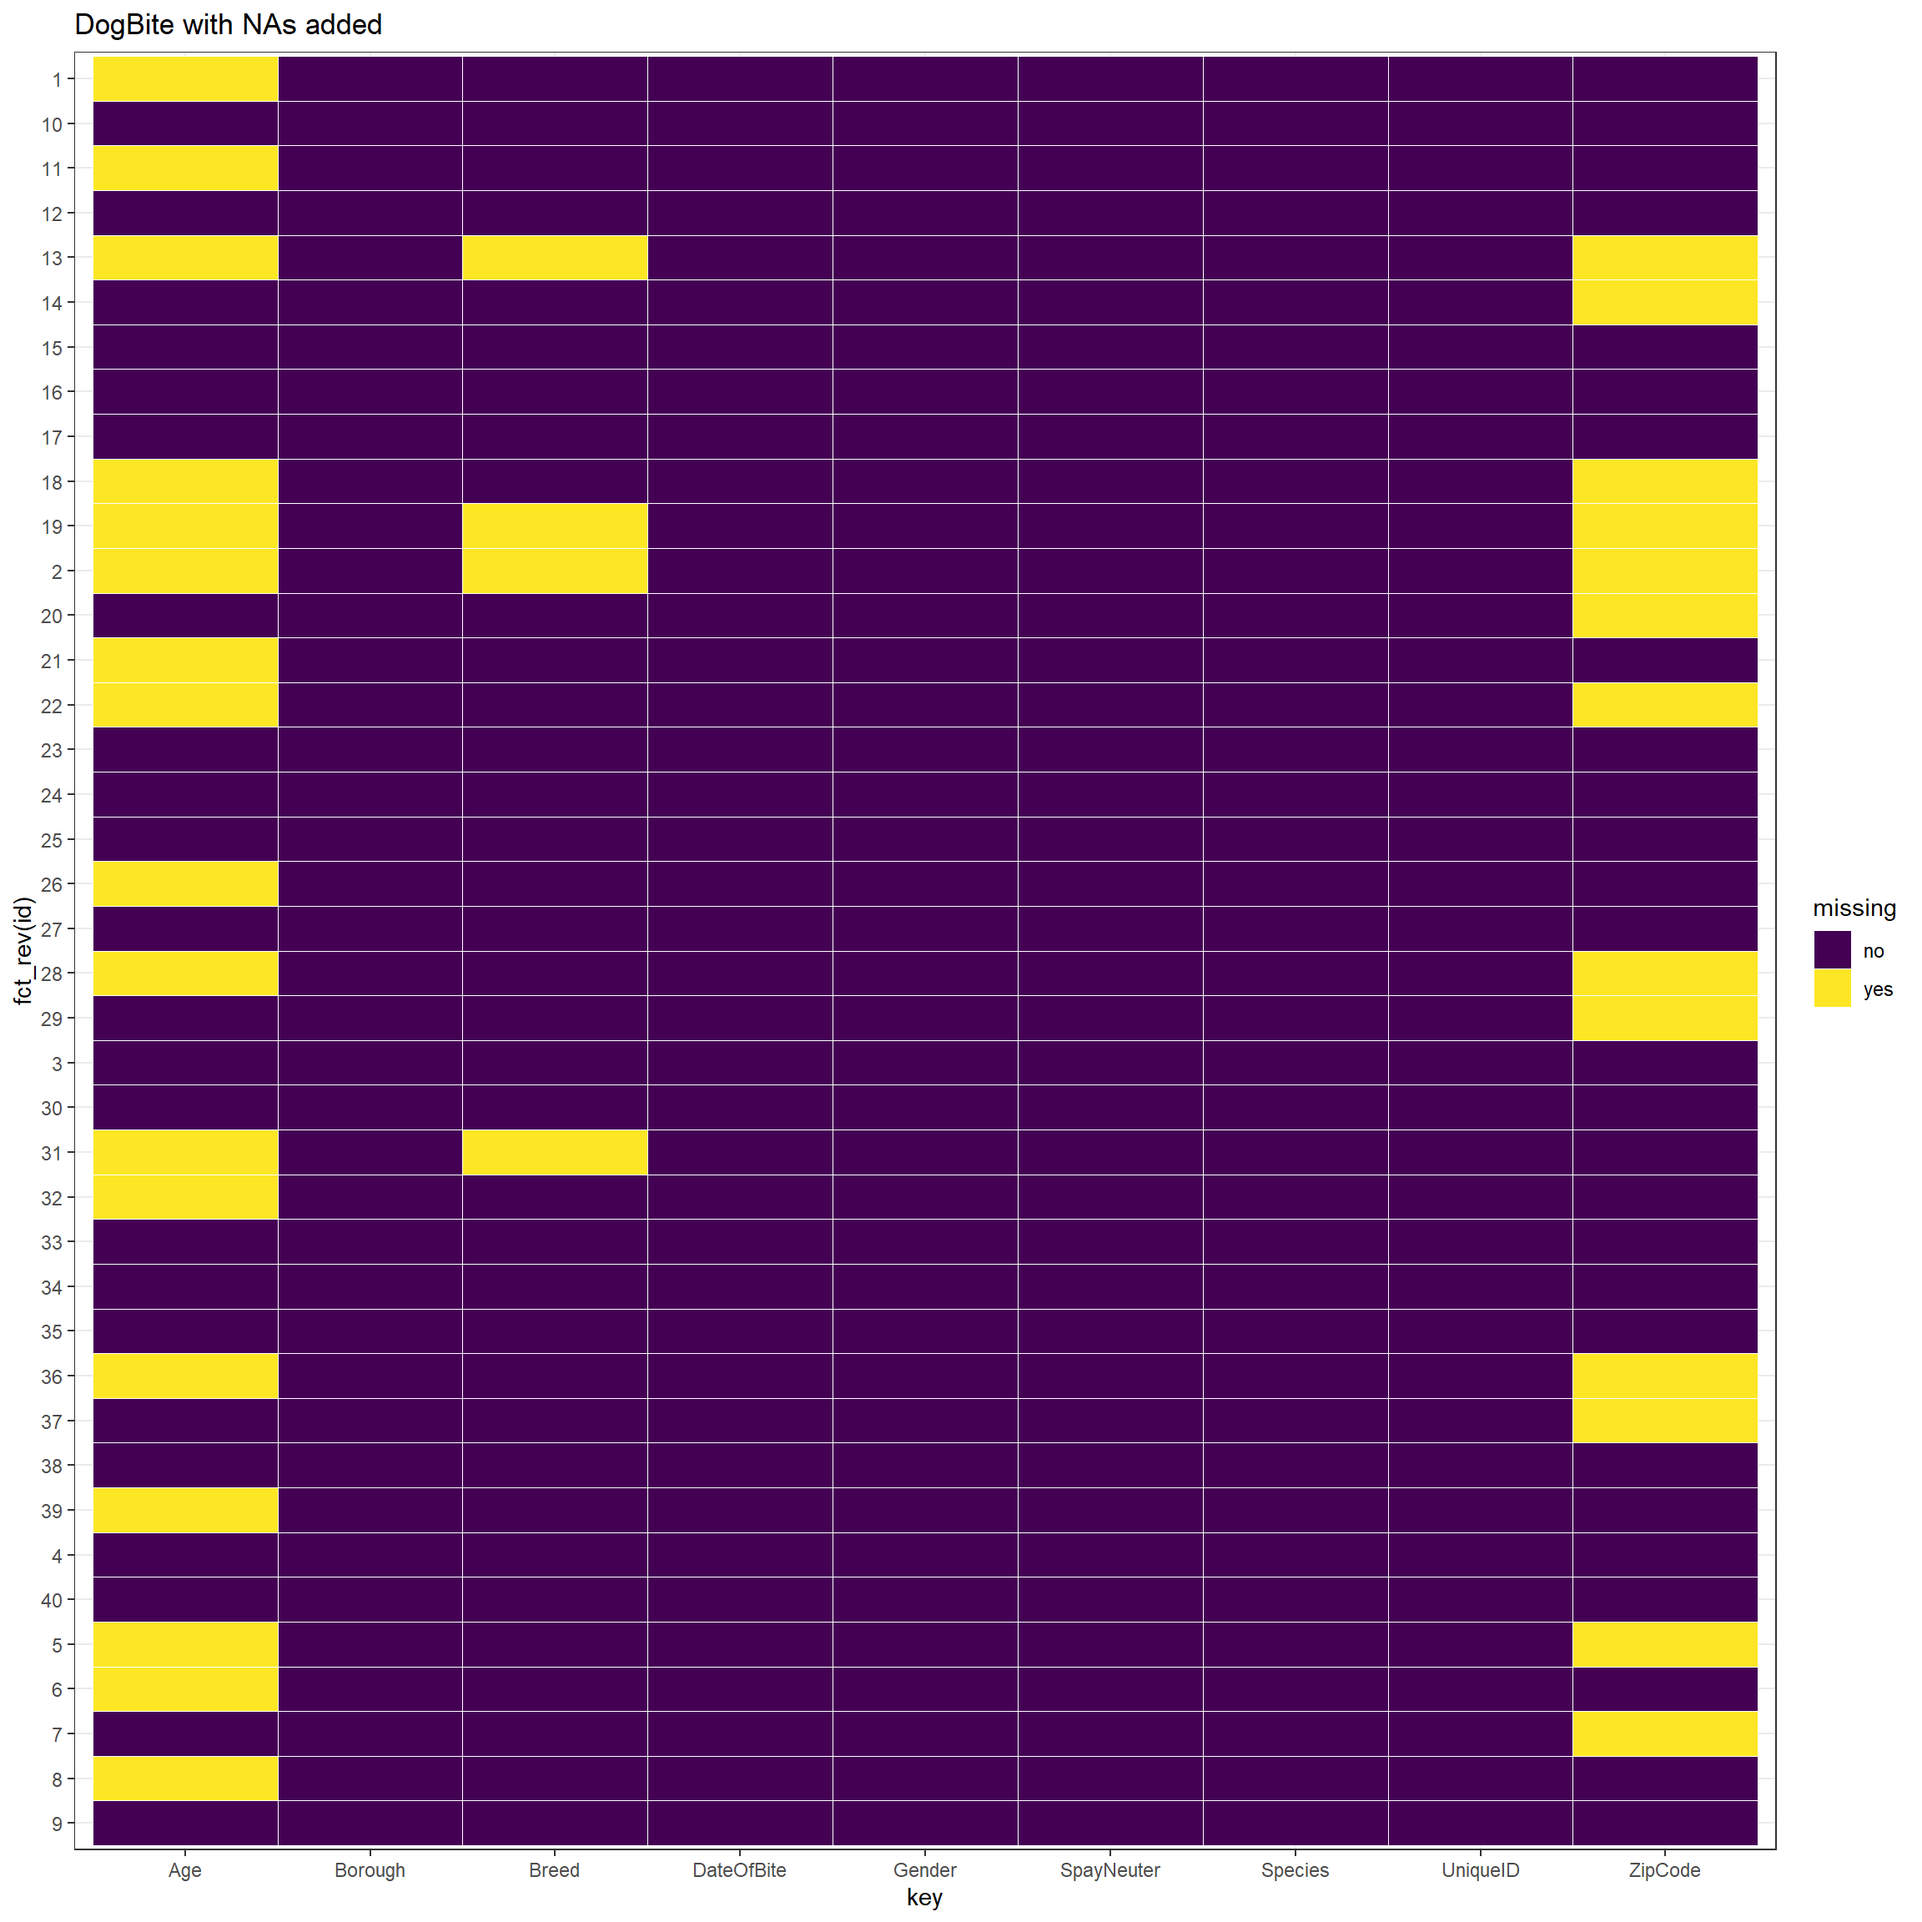
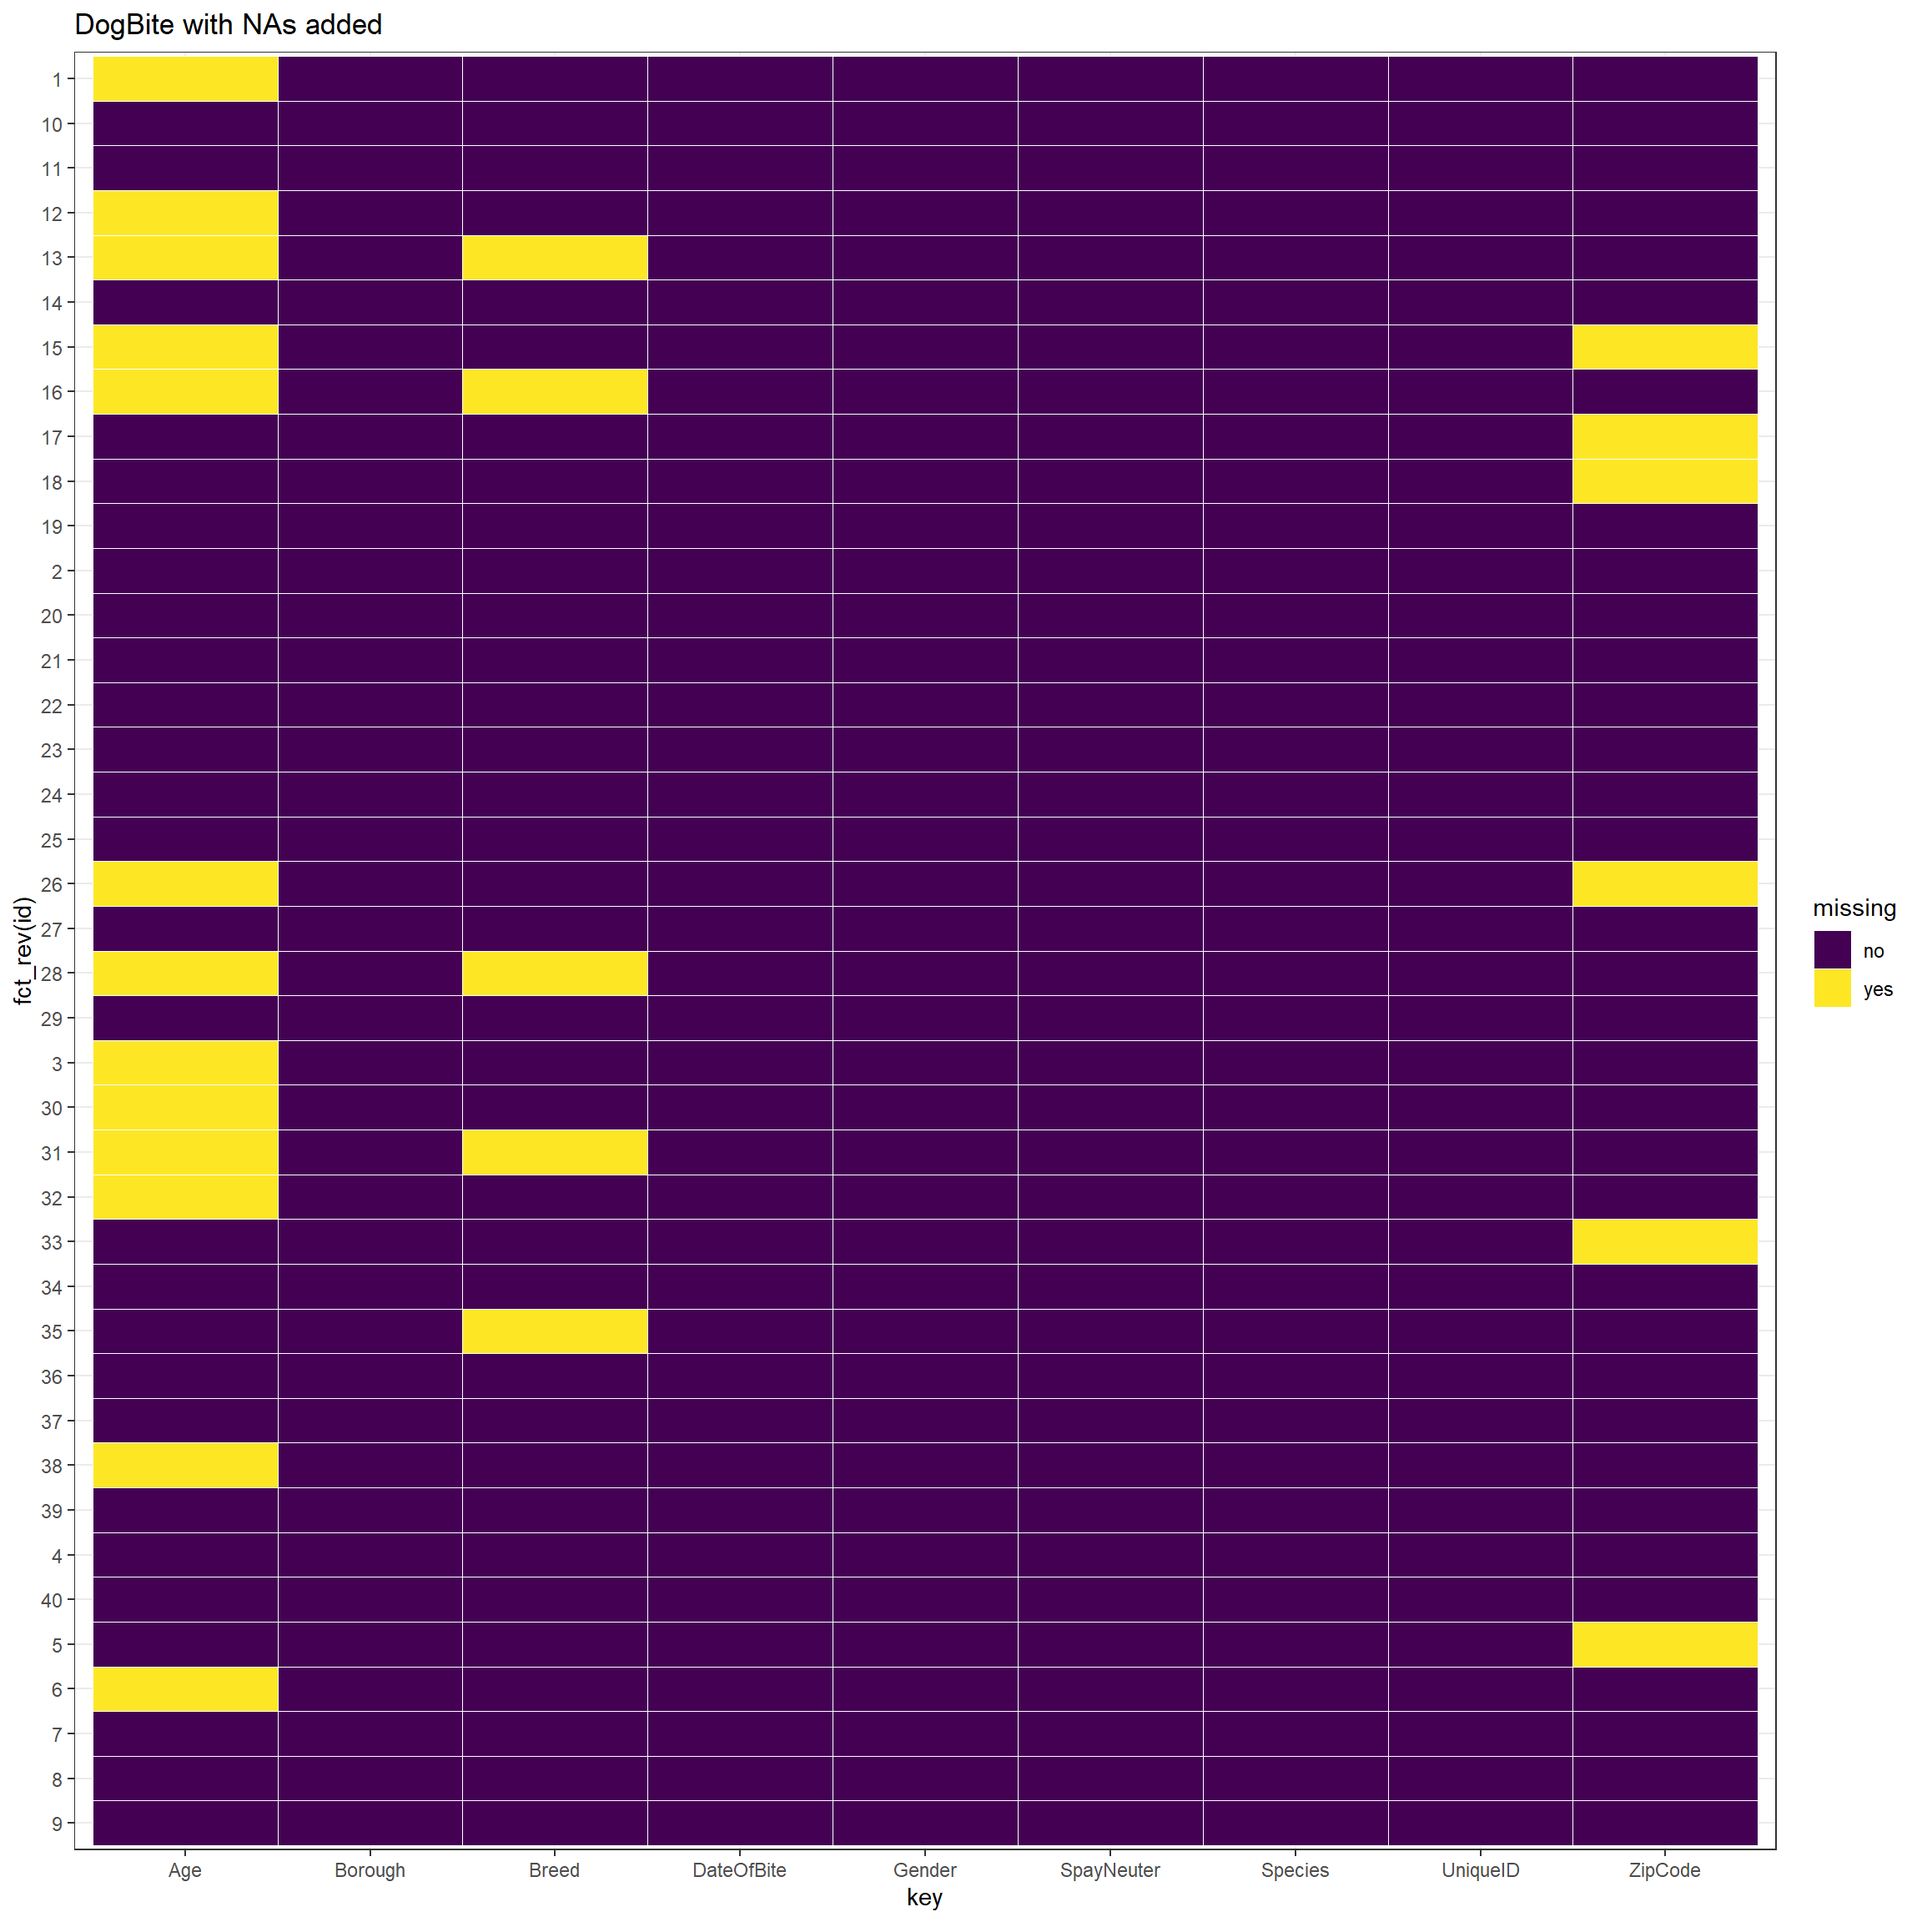
commit

diff --git a/docs/missing-values.html b/docs/missing-values.html
@@ -153,7 +153,7 @@
 <div id="missing-values-by-row" class="section level2" number="4.3">
 <h2><span class="header-section-number">4.3</span> Missing values by row</h2>
 <p>Since we have 10280 rows, it is not clear if we continue analyzing with all of the data. Our data only contains one file, thus we randomly select 40 rows for analysis.</p>
-<pre><code>##  [1] 3 3 3 2 2 2 2 2 2 1 1 1 1 1 1 1 1 1 1 1 1 1 0 0 0 0 0 0 0 0
+<pre><code>##  [1] 2 2 2 2 2 2 1 1 1 1 1 1 1 1 1 1 1 1 0 0 0 0 0 0 0 0 0 0 0 0
 ## [31] 0 0 0 0 0 0 0 0 0 0</code></pre>
 <p>Then we show missing values by row from large to small. We found that rows with the most missing values miss 3 values (i.e, “Age”, “ZipCode”, and “Breed”), while rows with the least missing values miss 0 value. There are only a small part of events in which all three values are missing.</p>
 </div>
@@ -174,37 +174,28 @@
 </div>
 <div id="missing-patterns" class="section level2" number="4.6">
 <h2><span class="header-section-number">4.6</span> Missing patterns</h2>
-<pre><code>## NOTE: In the following pairs of variables, the missingness pattern of the first is a subset of the second.
-##  Please verify whether they are in fact logically distinct variables.
-##      [,1]    [,2] 
-## [1,] &quot;Breed&quot; &quot;Age&quot;</code></pre>
 <pre><code>## [1] &quot;missing_data.frame&quot;
 ## attr(,&quot;package&quot;)
 ## [1] &quot;mi&quot;</code></pre>
-<pre><code>##  [1] Age                 Breed, Age, ZipCode nothing            
-##  [4] nothing             Age, ZipCode        Age                
-##  [7] ZipCode             Age                 nothing            
-## [10] nothing             Age                 nothing            
-## [13] Breed, Age, ZipCode ZipCode             nothing            
-## [16] nothing             nothing             Age, ZipCode       
-## [19] Breed, Age, ZipCode ZipCode             Age                
-## [22] Age, ZipCode        nothing             nothing            
-## [25] nothing             Age                 nothing            
-## [28] Age, ZipCode        ZipCode             nothing            
-## [31] Breed, Age          Age                 nothing            
-## [34] nothing             nothing             Age, ZipCode       
-## [37] ZipCode             nothing             Age                
-## [40] nothing            
-## 6 Levels: nothing Age ZipCode Age, ZipCode ... Breed, Age, ZipCode</code></pre>
+<pre><code>##  [1] Age          nothing      Age          nothing     
+##  [5] ZipCode      Age          nothing      nothing     
+##  [9] nothing      nothing      nothing      Age         
+## [13] Breed, Age   nothing      Age, ZipCode Breed, Age  
+## [17] ZipCode      ZipCode      nothing      nothing     
+## [21] nothing      nothing      nothing      nothing     
+## [25] nothing      Age, ZipCode nothing      Breed, Age  
+## [29] nothing      Age          Breed, Age   Breed, Age  
+## [33] ZipCode      nothing      Breed        nothing     
+## [37] nothing      Age          nothing      nothing     
+## Levels: nothing Age ZipCode Breed Breed, Age Age, ZipCode</code></pre>
 <p>This part lists the situation of missing values of our 40 samples. Each one indicates the kinds of values that are missed in each sample.</p>
-<pre><code>## [1] &quot;nothing&quot;             &quot;Age&quot;                
-## [3] &quot;ZipCode&quot;             &quot;Age, ZipCode&quot;       
-## [5] &quot;Breed, Age&quot;          &quot;Breed, Age, ZipCode&quot;</code></pre>
+<pre><code>## [1] &quot;nothing&quot;      &quot;Age&quot;          &quot;ZipCode&quot;      &quot;Breed&quot;       
+## [5] &quot;Breed, Age&quot;   &quot;Age, ZipCode&quot;</code></pre>
 <p>This part lists all of the patterns above.</p>
-<pre><code>##             nothing                 Age             ZipCode 
-##                  18                   8                   5 
-##        Age, ZipCode          Breed, Age Breed, Age, ZipCode 
-##                   5                   1                   3</code></pre>
+<pre><code>##      nothing          Age      ZipCode        Breed   Breed, Age 
+##           22            6            4            1            5 
+## Age, ZipCode 
+##            2</code></pre>
 <p>This part shows the specific counts of patterns above.</p>
 <p>Then, we aim to create a missing values plot in the style of extracat::visna() (no longer available on CRAN) using ggplot2. First, we create the function for creating missing plots.</p>
 <p>Then we use the function to draw the plot. Note that we use the entire dataset instead of our 40 samples in this part for better discussion.</p>
